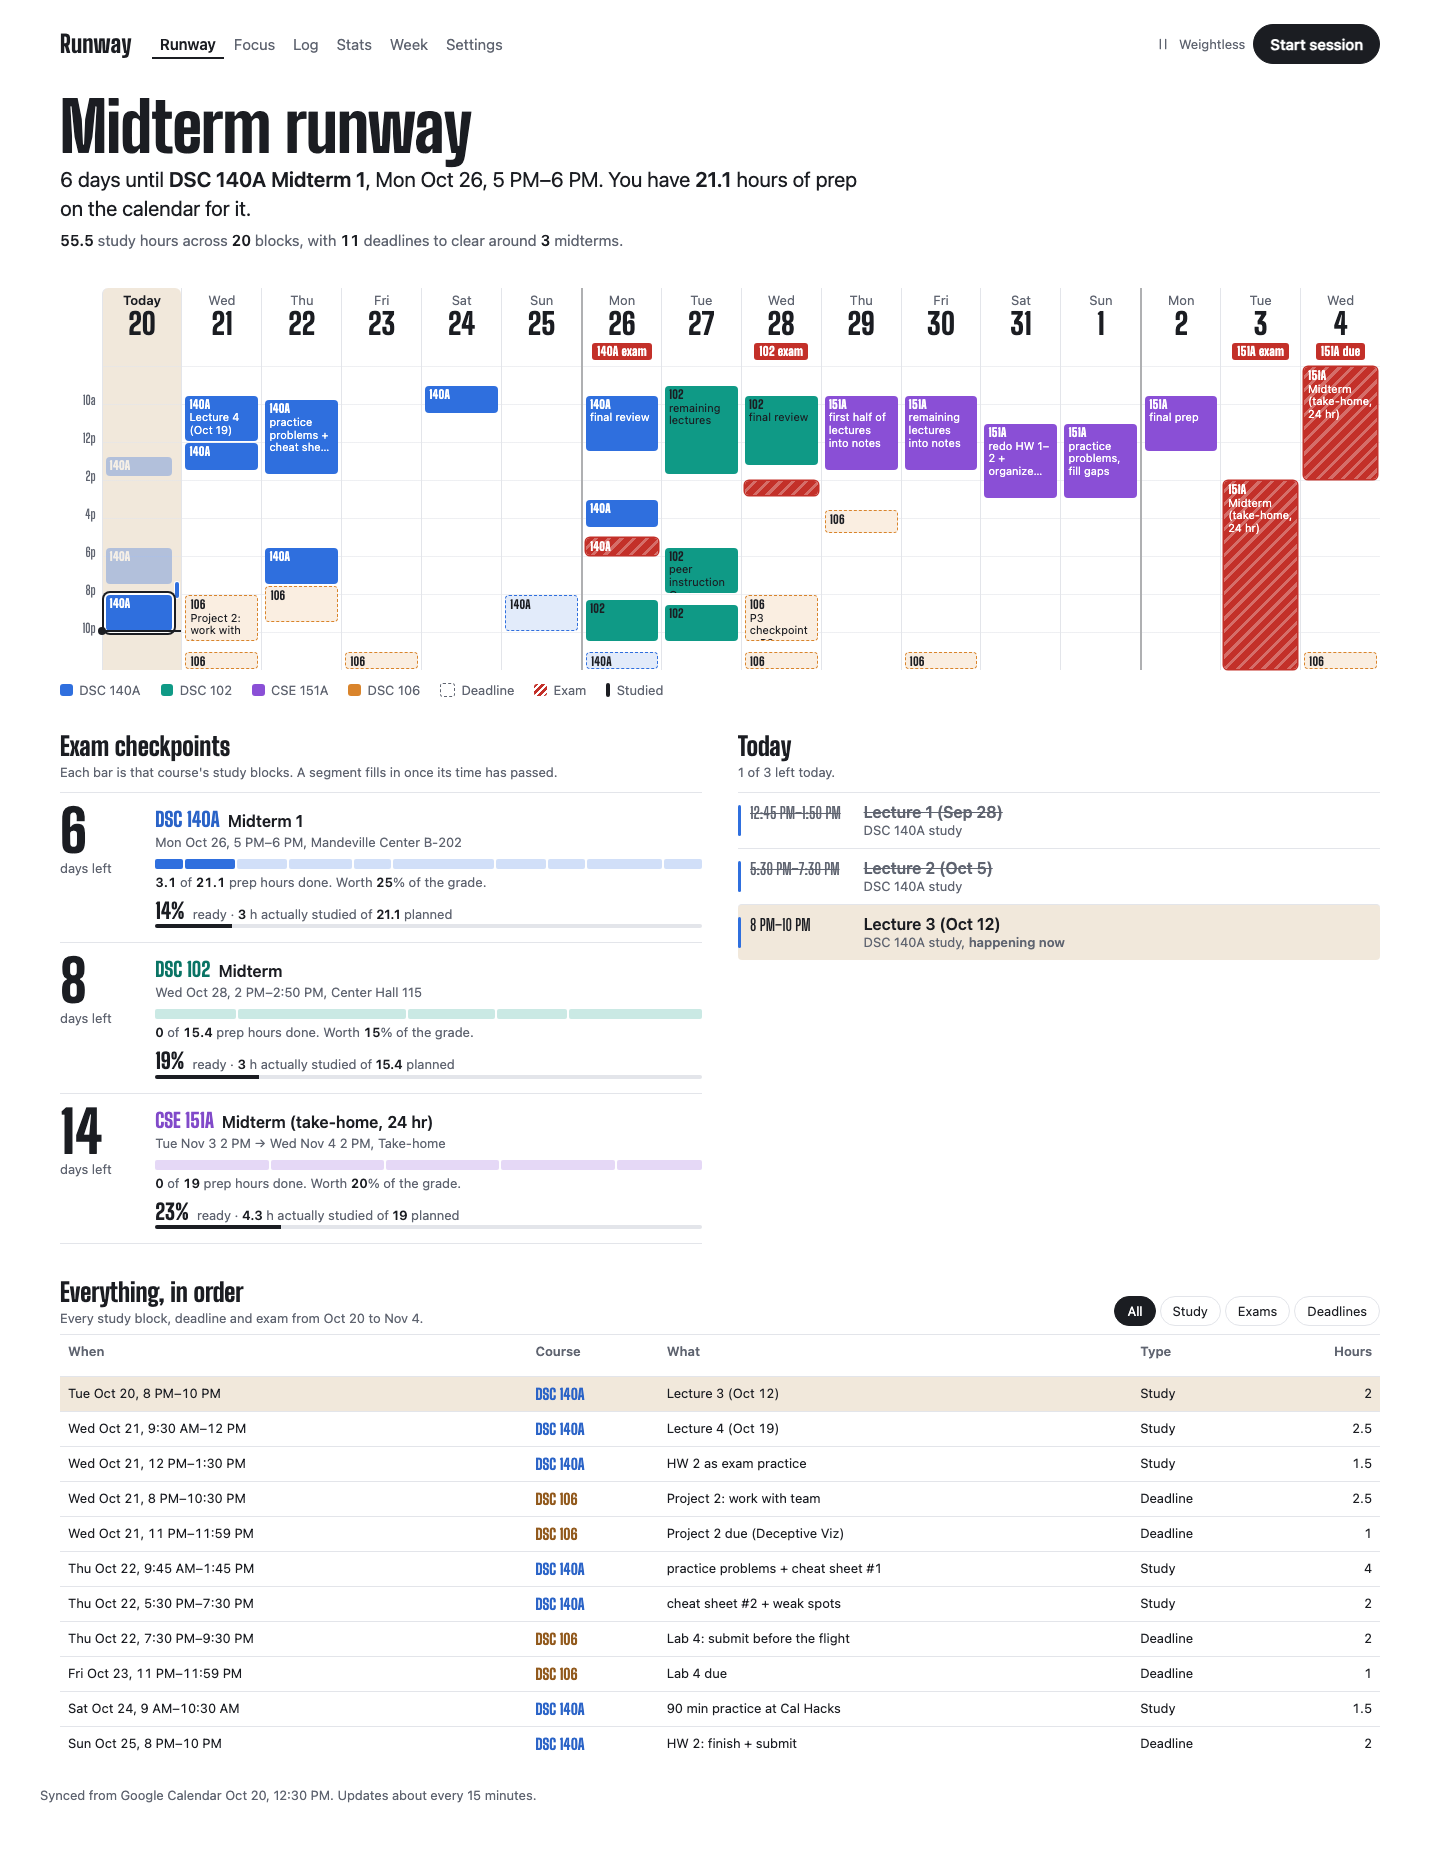
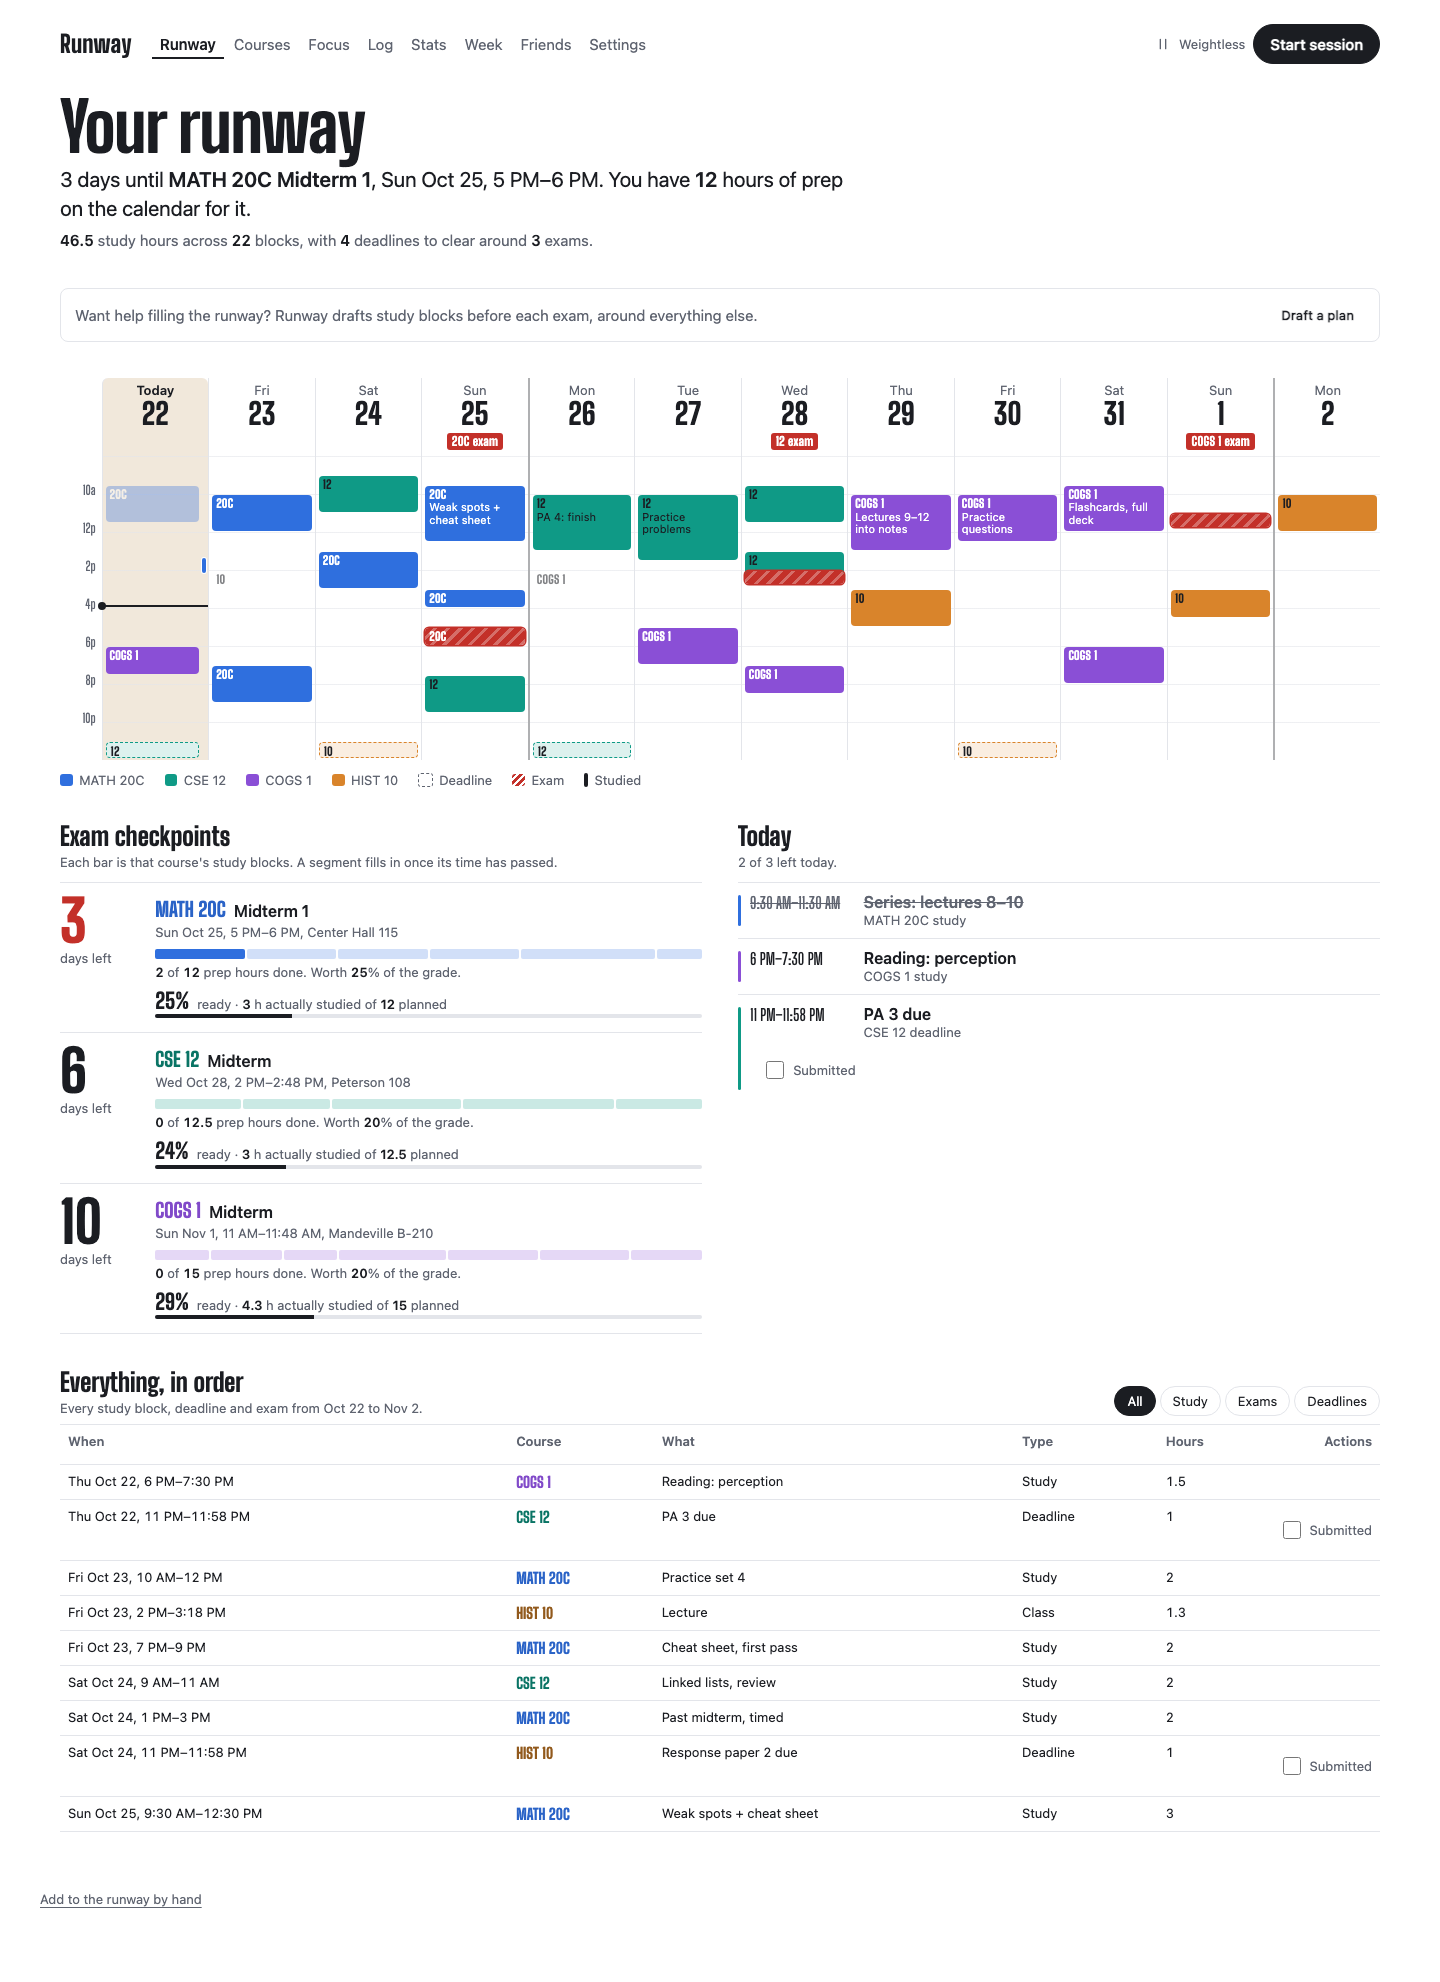
docs: README for v2 with fresh screenshots and run-it-yourself commands

diff --git a/README.md b/README.md
@@ -1,6 +1,6 @@
 # Runway
 
-Runway is a study app for students. Sign up with your school email, connect your calendar (Canvas, Google, iCloud, Outlook or an .ics file), check how Runway read it, let it draft study blocks before each exam, tick off deadlines, see classmates in your courses (opt-in both ways), run your study sessions with breaks and music, check your focus with your phone, and see how ready you actually are for each exam. It started as my own study cockpit built from my Google Calendar; v2 makes it something anyone can use.
+Runway is a study app for students. Sign up with your school email or with Google, connect the calendar you already keep (Canvas, Google, iCloud, Outlook or an .ics file), check how Runway read it, let it draft study blocks before each exam, tick off deadlines, see classmates in your courses if you both opt in, run your sessions with breaks and music, let your phone verify your focus, and see how ready you actually are for each exam. It started as my own study cockpit built from my Google Calendar; v2 is the same idea for anyone.
 
 **Live:** https://aryenp.github.io/academic-dashbaord/
 
@@ -14,12 +14,21 @@ Runway starts from the plan I already keep and closes the loop: **plan → sessi
 
 ## What it does
 
+- **Sign up and connect.** A school email or a Google account. Then paste a calendar address (or upload an .ics) and Runway fetches it every 15 minutes, finds the courses, classes, exams and deadlines in it, and builds the runway. The address is stored encrypted and never shown again.
+- **Courses: check what it read.** Title rules read most events on their own; the ones they were unsure about go to Claude, which sees titles, times and places and nothing else, and comes back with a course, a kind and a one-line reason. The Courses screen shows every reading, and anything you change there wins over the AI, which wins over the rules. Nothing the AI proposes becomes part of the plan until you confirm it.
 - **Runway.** Every day from now to the last exam, 8 AM to midnight, with study blocks in course colors and exams hatched in red. Time I actually studied is drawn as a thin bar beside the plan. Each exam shows a countdown and a readiness score: hours studied for that course before the exam ÷ hours planned.
+- **A plan when you want one.** "Draft a plan" works out your free time from everything on the runway and your settings (hours a day, not before, not after, days off) and places study blocks before each exam, sized by its weight and how much is already planned, with a reason on each. Blocks are dashed proposals until you accept them, one or all. If your own history says certain hours work for you, those get first pick. The accepted plan is also a calendar feed you can subscribe to.
+- **Deadlines and grades.** Deadlines have a status you tick off on the runway. A small browser extension reads Gradescope and Canvas pages you open and sets the status for you, and sends scores only if you switch that on. The Week page puts scores next to the hours that went into that course.
+- **Classmates and friends.** Opt in per course and see who else in that course uses Runway, with each person's hours, readiness and streak at their own sharing level. No roster: matching is school plus course code, and nobody appears unless they opted in too. Friends are added by handle and accepted by the other side.
+- **Syllabus reading.** Drop in a syllabus PDF and the exams and dated deadlines in it become proposals, each with the page and the quote it came from, accepted the same way as drafted blocks.
 - **Sessions.** One tap starts a session on whatever the calendar says I should be doing now. The timer is derived from timestamps in the database, never ticked, so it's right after a reload, after the laptop sleeps, and on my phone and laptop at the same time.
 - **Breaks.** Pomodoro, 50/10, custom, or flow (no timer, a nudge at 90 minutes). The break screen gives one concrete thing to do: water, stretch, the 20-20-20 eye rule.
 - **Phone focus.** iPhone Shortcuts automations ping Runway when I open or close an app I've marked as distracting. During a session that becomes phone time, pickups, and focus % = 1 − phone time ÷ focus time. Breaks don't count.
 - **Music.** Spotify follows the session: the focus playlist on start, the break playlist on breaks, pause at the end. It remote-controls the Spotify app already running on my phone or laptop.
-- **Log, stats, weekly review.** Every session, editable, with manual entries and CSV export. Planned vs. actual per day, focus % over time, pickups per hour, and a heatmap of my best hours.
+- **Signals and patterns.** A second Shortcut sends last night's sleep, exercise minutes and steps once a day, nothing finer. Stats turns two months of that and the sessions into plain sentences: sessions after a 7-hour night tend to score higher, that kind of thing. "Tends to", never "because".
+- **Log, stats, weekly review.** Every session, editable, with manual entries and CSV export. Planned vs. actual per day, focus % over time, pickups per hour, a heatmap of my best hours, and a three-sentence review of the week written once and kept.
+- **Sharing, your call.** Off by default. Turn it on and your share page shows your runway, or the runway plus exam readiness (study blocks without their titles), or that plus daily totals. Notes, phone data and app names are never shared at any level.
+- **Your data.** Settings → Download my data saves everything Runway holds about you as one JSON file. Delete my account removes it all at once, every table.
 - **Works offline.** It installs to the Home Screen. A whole session works without a connection, then syncs with the right times when it's back.
 
 | Focus | Break | Stats |
@@ -31,7 +40,8 @@ Runway starts from the plan I already keep and closes the loop: **plan → sessi
 ```
 Canvas / Google / iCloud / Outlook feeds ──▶ Edge Function sync-sources ──▶ Supabase Postgres ◀── the site (GitHub Pages)
             (every 15 min, GitHub Actions; addresses in Vault)              (Row Level Security)
-iPhone Shortcuts ──POST──▶ Edge Function phone-event ───────────────────────▶
+iPhone Shortcuts ──POST──▶ Edge Functions phone-event, signals ─────────────▶
+Gradescope / Canvas pages ──extension──▶ Edge Function import-items ────────▶
 Spotify app on phone/laptop ◀── Web API (PKCE) ── the site
 ```
 
@@ -49,30 +59,35 @@ Design decisions and the reasons for each are in [`docs/DECISIONS.md`](docs/DECI
 ## Tests
 
 - **Unit** (Vitest): the timer, the focus formula, stats, the offline queue, the Spotify client.
-- **Database** (Vitest against a local Supabase): RLS. Another account can't read or change your rows; share pages get only what you turned on; sign-up needs a school email; deleting an account removes everything.
+- **Database** (Vitest against a local Supabase): RLS. Another account can't read or change your rows; share pages get only what you turned on; sign-up needs a school email; deleting an account removes every row in every table, and the other person's rows stay.
 - **Edge Functions** (Deno): the iCal parser and recurrence expansion, the title rules, the sync against a fake database (first sync, 304, a renamed event, a deleted event, an override, duplicates across sources, errors), the Claude call against a fake API (request shape, caching, parsing, refusals, pricing), and the phone-event handler.
-- **Eval** (`npm run eval:classify`): a labeled set of 48 calendar events; scores the title rules, and Claude with `--ai`.
+- **Eval** (`npm run eval:classify`): a labeled set of 51 calendar events; scores the title rules (with the context pass that places a course from the events around it) and Claude with `--ai`. Rules: kind 100 %, course 66.7 %. Claude: kind 100 %, course 98.0 %.
 - **Extension** (`npm run test:ext`): the Gradescope and Canvas page parsers against saved fixtures.
-- **Browser** (Playwright): the landing page, sign-in and privacy pages, plus signed-in flows against a local Supabase with Spotify faked at the network layer: connecting a calendar (served from the test), the Courses review screen, drafting and accepting a plan, ticking deadlines, the plan feed, classmates and friends, sessions, breaks, phone tracking, sharing, offline sync, and an axe accessibility check of every view in light and dark.
+- **Browser** (Playwright): the landing page, sign-in and privacy pages, plus signed-in flows against a local Supabase with Spotify faked at the network layer: a new account from sign-in to runway, connecting a calendar (served from the test), the Courses review screen, drafting and accepting a plan, ticking deadlines, the plan feed, classmates and friends, sessions, breaks, phone tracking, the signals Shortcut, sharing, downloading your data, offline sync, screenshots at 390 and 1440 in light and dark, and an axe accessibility check of every view.
 
-Lighthouse on mobile: 96 performance, 100 accessibility.
+Lighthouse on mobile (`npm run lighthouse`): landing 99 performance, 100 accessibility; sign-in 97 and 100.
 
 ## Run it yourself
 
 ```sh
 npm install
 npm run dev          # http://127.0.0.1:5173/academic-dashbaord/  (landing page only, no backend needed)
-npm run check        # lint, format, unit tests, build (with the prerendered landing page), browser tests
+npm run check        # lint, format, unit tests, build (with the prerendered landing page), public browser tests
 ```
 
 With the backend (needs Docker and the Supabase CLI):
 
 ```sh
-supabase start                          # local Postgres, Auth, Realtime
-echo 'SYNC_KEY=local' > .env.functions.local && supabase functions serve --no-verify-jwt --env-file .env.functions.local
-# put the local URL and anon key in .env.local as VITE_SUPABASE_URL and VITE_SUPABASE_ANON_KEY
-npm run test:db && npm run test:fn && npm run test:e2e:db
+supabase start && supabase db reset    # local Postgres, Auth, Vault, with every migration applied
+npm run types                           # regenerate src/lib/database.types.ts after a migration
+npm run test:db                         # the RLS suite
+npm run test:fn                         # the Edge Function and extension tests (Deno)
+supabase functions serve --no-verify-jwt --env-file .env.functions.local   # in another terminal
+npm run test:e2e:db                     # the signed-in browser suite, screenshots included
+npm run eval:classify                   # the title rules on the labeled set; add --ai for Claude
 ```
+
+`.env.functions.local` holds `SYNC_KEY=local` and, for the AI paths, `ANTHROPIC_API_KEY`; `.env.local` holds the local `VITE_SUPABASE_URL` and `VITE_SUPABASE_ANON_KEY`. Both are git-ignored. `npm run lighthouse` audits the built landing and sign-in pages; `npm run ext:zip` packs the extension.
 
 ### Deploying your own
 

diff --git a/docs/DECISIONS.md b/docs/DECISIONS.md
@@ -118,3 +118,4 @@ Changes from `docs/SPEC.md` and `docs/BUILD_PROMPT.md`, with the reason for each
 - **2026-10-22 · Account deletion was checked against every table since v1; nothing survives.** The RLS suite now seeds a person with rows in courses, calendar sources, plan items, events, sessions, breaks, phone events, access tokens, signals, weekly reviews, AI usage and friends (both directions), deletes the account, and finds every row gone while a second person's identical rows, and their unrelated friend request, are untouched. Every table added since v1 already referenced `auth.users on delete cascade` (breaks cascade through sessions), so no migration 0016 was needed.
 - **2026-10-22 · Settings rows stack on a phone.** A `form-row` with text or a field beside buttons used `flex: 1` on the text, which let it shrink into a narrow column next to "Replace token / Turn off" at 390 px. The text now keeps a 16 rem basis, so on a phone it takes the whole row and the buttons drop below it; on a laptop nothing moves. One rule in app.css, so every such row in Settings (account, download, phone, Spotify, the shortcut token, the app-name field) behaves the same.
 - **2026-10-22 · The landing page says what the product does now.** Both calls to action add "or continue with Google", shown only when the build has Google wired (`VITE_GOOGLE_SIGNIN`, read through `src/lib/flags.ts` so the prerender script under Node sees the same variable), and "How it works" has a fourth step for the Phase 5 signals: an iPhone Shortcut sends sleep, exercise and steps once a day, and Stats says what tends to go with a good session. Same numbered style as the first three; the prerendered HTML carries it. Looking at the 390 px screenshot also showed the landing page scrolling sideways: the hero's grid items took the demo runway's full width (`min-width: auto`), so the lede ran off the screen; they now have `min-width: 0` and the runway scrolls inside its box, with a smoke test at 375 px.
+- **2026-10-22 · The README describes v2 as it is.** "What it does" now walks the product in the order a person meets it (sign-up, connect, the Courses check, the runway, drafting, deadlines and grades through the extension, classmates and friends, syllabus reading, sessions, breaks, phone focus, music, signals and patterns, log and review, sharing levels, download and delete), still first person and plain. The runway and stats screenshots are from today's suite (the demo courses, so nothing personal); "Run it yourself" lists the same commands as `CLAUDE.md`, including the functions runtime and the eval.
